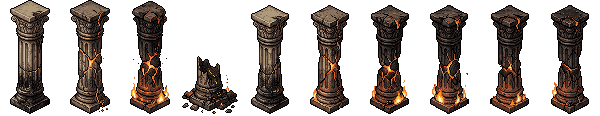
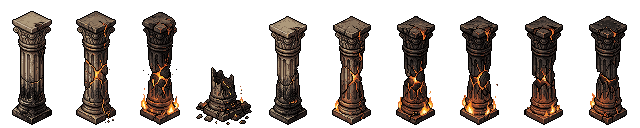
Sulfura : nouvelles colonnes (décor, colonnes de basalte à 6 stades, ruine)
Claude-Session: https://claude.ai/code/session_01VEph8BVo3b8T7tZwgCg9KC

Changed region(s): [[0.0, 0.0, 0.48, 0.9828], [0.51, 0.0517, 0.78, 0.9828], [0.81, 0.0517, 0.99, 0.9828]]

diff --git a/js/render.js b/js/render.js
@@ -144,7 +144,7 @@ function drawObsSolid(ctx, g, o) {
     if (Math.random() < 0.25) g.parts.push({ x: x + (Math.random() - 0.5) * 8, y, z: h, vx: 0, vy: 0, vz: -10, life: 0.3, max: 0.3, c: '#fff58a', size: 1 }); }
   else if (o.kind === 'basalt' && pickProp('obs_basalt')) {  // colonne de basalte : 6 stades de dégâts de la planche (props.json)
     const r = Math.max(0, Math.min(0.999, o.hp / o.maxhp)), f = 5 - Math.floor(r * 6), p = PROPS.db.obs_basalt, sc = p.scale;
-    ctx.save(); ctx.beginPath(); ctx.rect(x - 40, y - 120 * sc * h0 - 4, 80, 120 * sc * h0 + 6); ctx.clip();
+    ctx.save(); ctx.beginPath(); ctx.rect(x - 40, y - 128 * sc * h0 - 4, 80, 128 * sc * h0 + 6); ctx.clip();
     drawProp(ctx, 'obs_basalt', x, y + 3 + (1 - h0) * 30, g.t, 0, 0, f); ctx.restore(); }
   else if (o.kind === 'rock' || o.kind === 'basalt') { const h = 18 * h0, lava = o.kind === 'basalt', c1 = lava ? '#3a2a2a' : '#8a7a6a', c2 = lava ? '#54403c' : '#b0a090', c3 = lava ? '#241a1a' : '#5e5246';
     poly(ctx, [x - 9, y, x - 8, y - h * 0.6, x - 3, y - h, x + 4, y - h * 0.9, x + 9, y - h * 0.5, x + 8, y], c1); poly(ctx, [x - 8, y - h * 0.6, x - 3, y - h, x + 1, y - h * 0.7, x - 4, y - h * 0.3], c2); poly(ctx, [x + 2, y, x + 4, y - h * 0.6, x + 8, y - h * 0.5, x + 8, y], c3);

diff --git a/sw.js b/sw.js
@@ -2,7 +2,7 @@
 // - Code et données (HTML, JS, CSS, JSON) : réseau d'abord, copie locale si hors ligne ou réseau lent, donc les mises à jour arrivent tout de suite.
 // - Médias (assets/ : sprites, effets, musiques) : copie locale d'abord, remplie au fil du jeu. Ce qui a déjà été joué reste disponible hors ligne.
 // Changer VERSION invalide toutes les copies locales.
-const VERSION = 'v57';
+const VERSION = 'v58';
 const SHELL = `pokesouls-shell-${VERSION}`;
 const MEDIA = `pokesouls-media-${VERSION}`;
 const SHELL_FILES = [
